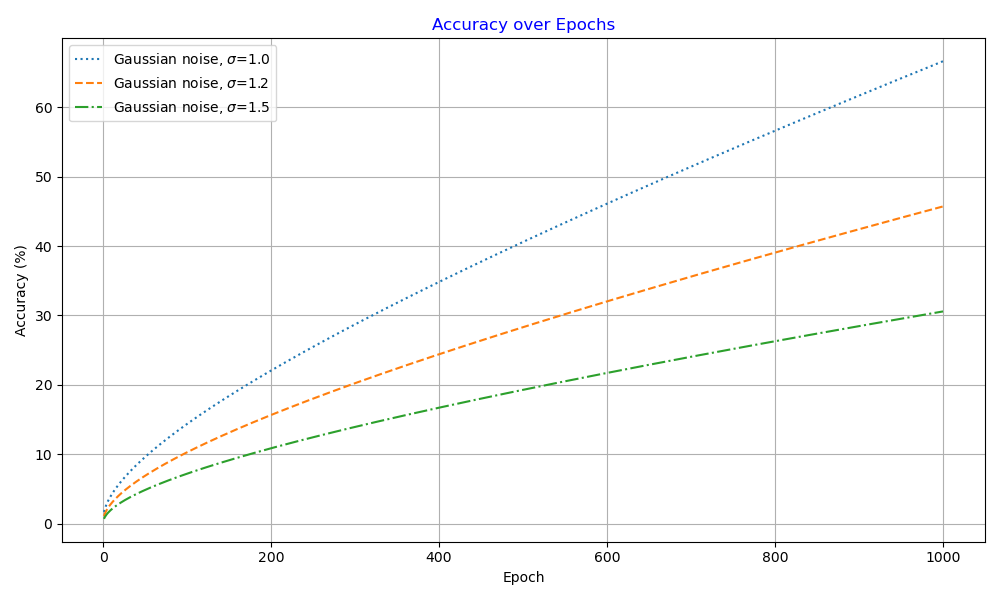
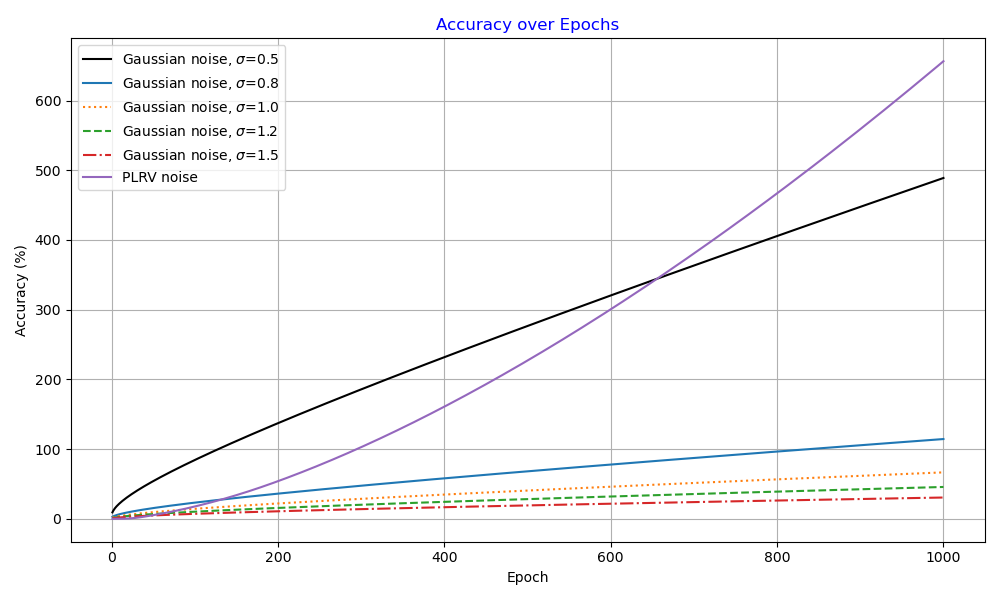
cifar plot

diff --git a/examples/my_example/result_cifar_june_11/plotter_cifar.py b/examples/my_example/result_cifar_june_11/plotter_cifar.py
@@ -261,13 +261,13 @@ if __name__=="__main__":
 
     legends={
         # "0.3" : "Gaussian noise, $\sigma$=0.3", 
-        # "0.5" :"Gaussian noise, $\sigma$=0.5",
-        # "0.8" : "Gaussian noise, $\sigma$=0.8", 
+        "0.5" :"Gaussian noise, $\sigma$=0.5",
+        "0.8" : "Gaussian noise, $\sigma$=0.8", 
         "1.0": "Gaussian noise, $\sigma$=1.0", 
         "1.2":"Gaussian noise, $\sigma$=1.2", 
         "1.5":"Gaussian noise, $\sigma$=1.5",
         # "1.7":"Gaussian noise, $\sigma$=1.7",
-        # "0.0": "PLRV noise"
+        "0.0": "PLRV noise"
     }
 
 
@@ -295,29 +295,29 @@ if __name__=="__main__":
 
     line_styles={
         # "0.3" : 'k--', 
-        # "0.5" :'k-',
-        # "0.8" : '-', 
+        "0.5" :'k-',
+        "0.8" : '-', 
         "1.0": ':', 
         "1.2": '--', 
         "1.5":'-.',
         # "1.7" : '-',
-        # "0.0": '-'
+        "0.0": '-'
     }
 
 
     files= {
         # "0.3" : "data_gaussian_sigma_1.0_epochs_1000.pkl", 
-        # "0.5" :"data_gaussian_sigma_0.5_epochs_1000.pkl",
-        # "0.8" : "data_gaussian_sigma_0.8_epochs_1000.pkl", 
+        "0.5" :"data_gaussian_cifar10_sigma_0.5_epochs_1000.pkl",
+        "0.8" : "data_gaussian_cifar10_sigma_0.8_epochs_1000.pkl", 
         "1.0": "data_gaussian_cifar10_sigma_1.0_epochs_1000.pkl", 
         "1.2":"data_gaussian_cifar10_sigma_1.2_epochs_1000.pkl", 
         "1.5":"data_gaussian_cifar10_sigma_1.5_epochs_1000.pkl",
         # "1.7":"data_gaussian_sigma_1.7_epochs_1000.pkl",
-        # "0.0": "data_r2dp_dynamic0.pkl"
+        "0.0": "data_gaussian_cifar10_dynamic_noise_epochs_1000.pkl"
     }
 
     # noise= [ '0.5', '0.8','1.0', '1.2','1.5', '1.7', '0.0']
-    noise= [ '1.0', '1.2','1.5']
+    noise= [ '0.5','0.8', '1.0', '1.2','1.5', '0.0']
 
     data_epsilon={}
     data_accuracy={}
@@ -340,8 +340,8 @@ if __name__=="__main__":
     
     plot_accuracy(data_accuracy, legends, line_styles, True)
 
-    # plot_epsilon_given_budget(data_epsilon, [0.3, 0.5, 0.8, 1, 1.5, 2.0], legends, line_styles)
+    plot_epsilon_given_budget(data_epsilon, [0.3, 0.5, 0.8, 1, 1.5, 2.0], legends, line_styles)
 
-    # plot_accuracy_vs_epsilon(data_epsilon, data_accuracy, [ 0.5, 1, 2.0, 4.0], legends, line_styles, noise, title="Accuracy_vs_Epsilon")
+    plot_accuracy_vs_epsilon(data_epsilon, data_accuracy, [ 0.5, 1, 2.0, 4.0], legends, line_styles, noise, title="Accuracy_vs_Epsilon")
     
     
